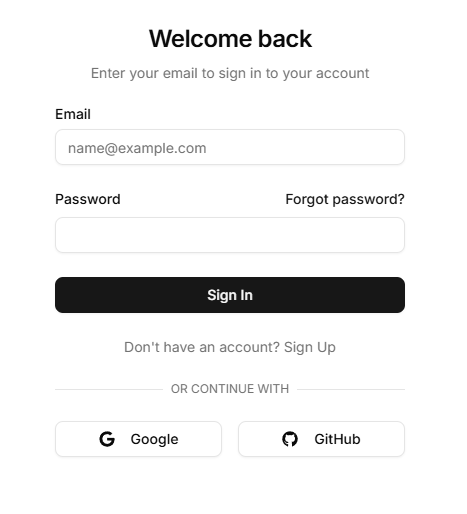
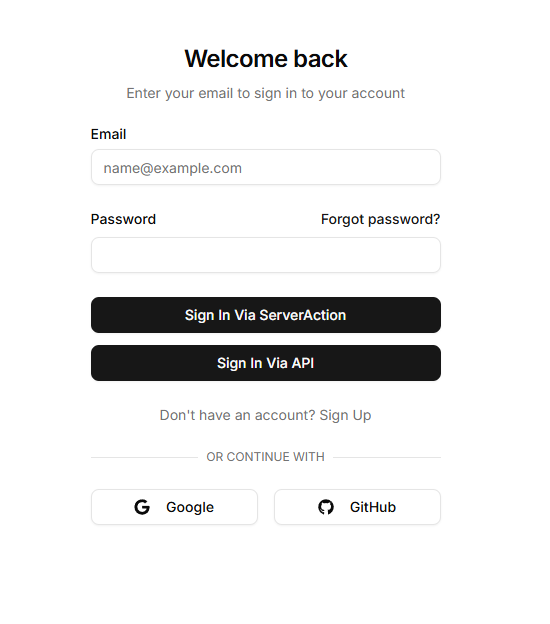
update README

diff --git a/README.md b/README.md
@@ -7,7 +7,8 @@
 
 ## はじめに
 
-このソフトウェアは、最新の Next.js 15 および NextAuth.js v5 を利用した Next.js スターターキットです。従来のパスワード認証の他にOAuth認証にも対応しています。このスターターキットを使えば、複雑なユーザー認証実装の手間を省き、ウェブアプリケーションの重要な機能の開発にすぐに取り組むことができます。
+このソフトウェアは、最新の Next.js 15 を利用した Next.js スターターキットです。従来のパスワード認証の他にOAuth認証にも対応しています。このスターターキットを使えば、複雑なユーザー認証実装の手間を省き、ウェブアプリケーションの重要な機能の開発にすぐに取り組むことができます。
+従来は NextAuth.js v5 を利用していましたが、現在は独自に開発したカスタム認証ライブラリ「SmartAuth」に移行しています。
 
 ## 特徴
 
@@ -26,11 +27,31 @@
 
 - Next.js 15 (App Router)
 - TypeScript
-- NextAuth.js v5
+- SmartAuth（独自実装のカスタム認証ライブラリ）
 - Prisma ORM
 - Tailwindcss
 - shadcn/ui
   
+## 認証について
+
+このスターターキットはもともと NextAuth.js v5 を利用して認証機能を構築していましたが、以下の理由によりカスタム認証ライブラリ「SmartAuth」へ移行しました：
+
+- NextAuth.js v5 が依然として Beta のままであり、安定性・保守性に不安があるため
+- Next.js における最近の重大なセキュリティ問題に対して、NextAuth 側の対応が遅れていたため
+- 認証ロジックをより柔軟かつ明示的にコントロールしたいため
+
+SmartAuth は以下の認証機能に対応しています：
+
+- メール / パスワード認証
+- OAuth 認証（Google / GitHub）対応
+- JWT による stateless なセッション管理
+- ユーザー情報のセッション更新機能
+- ログイン/ログアウト/セッション更新 API ハンドラ
+- データベース連携用 Adapter インターフェース
+- エラーハンドリングおよびセキュリティ対応（CSRF, トークン失効など）
+
+既存の NextAuth.js ベースのコードはすべて置き換わっており、依存関係にも NextAuth.js は含まれていません。
+
 
 ## 使用方法
 
@@ -78,8 +99,7 @@
     NEXT_PUBLIC_SERVER_URL=[アプリケーションのベースURL（デフォルト値: `http://localhost:3000`）]
     DATABASE_URL=[データベースの接続文字列]
 
-    # NextAuth用
-    NEXTAUTH_URL=[ベースURL]
+    # SmartAuth用
     AUTH_SECRET=[ランダムな文字列]
 
     # メール認証を使用する場合、SMTP接続情報の設定が必要
@@ -121,14 +141,15 @@
 │   │   ├── dashboard/          # ダッシュボードページ関連
 │   │   └── profile/            # プロフィールページ関連
 │   ├── action/                 # サーバーアクション
-│   ├── api/                    # APIルート (NextAuthのAPI)
+│   ├── api/                    # APIルート (SmartAuthのAPI)
 │   ├── layout.tsx              
 │   └── ...
 ├── components/                 
 │   ├── auth/                   # 認証関連コンポーネント
 │   ├── ui/                     
 │   └── ...
-├── lib/                        # ユーティリティ関数、設定ファイルなど
+├── lib/                        # ユーティリティ関数、設定ファイル、認証ライブラリ など
+│   ├── smart-auth              # SmartAuth の本体
 │   ├── config.ts               # アプリケーションの設定ファイル
 │   ├── email.ts                # Eメール送信関数等
 │   └── ...                     # その他のユーティリティ
@@ -140,6 +161,7 @@
 ├── .env                        # 環境変数
 ├── next.config.js              # Next.js の設定ファイル
 ├── package.json                # npm の設定ファイル
+├── smartauth.config.js         # SmartAuth の設定ファイル
 ├── tailwind.config.js          # Tailwind CSS の設定ファイル
 ├── tsconfig.json               # TypeScript の設定ファイル
 └── ...                        
@@ -174,7 +196,6 @@ openssl rand -base64 33
 ## 参考URL
 
 *   [Next.js Documentation](https://nextjs.org/docs)
-*   [Auth.js Documentation](https://authjs.dev/)
 *   [Prisma Documentation](https://www.prisma.io/docs)
 
 
